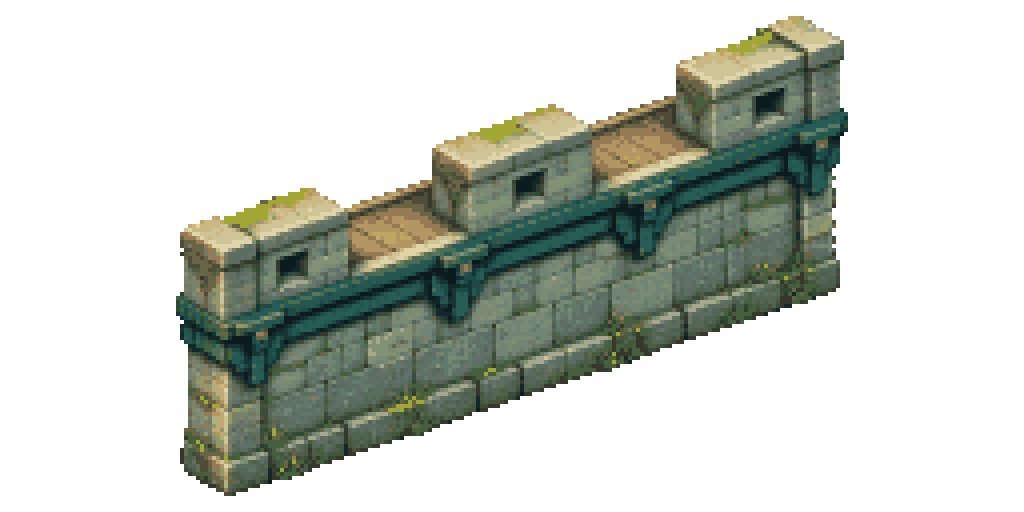
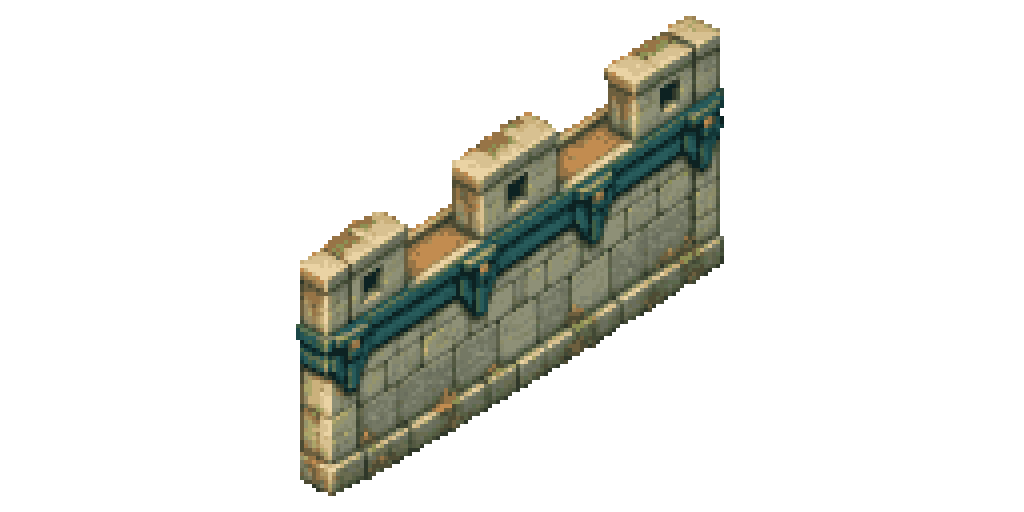
청룡 2차 성벽·모서리·길 그림 갱신

diff --git a/terrain/hd/README.md b/terrain/hd/README.md
@@ -1,6 +1,6 @@
 # 청룡 전투 필드 시험 세트
 
-ART_REQUESTS.md 요청 6의 권장 순서 1에 해당하는 그림이다. 게임 연결과 휴대폰 실기 검수는 아직 하지 않았다. 다른 진영/종류도 미착수다.
+ART_REQUESTS.md 요청 6의 청룡 시험 그림이다. 1차 5파일은 Claude가 버들골에 연결했다. 2026-11-07 청룡 2차 ①~③(성벽 교체·모서리 추가·길 교체)을 올렸으며, 새 그림의 배치 보정과 휴대폰 재확인은 Claude가 이어서 한다. ④~⑦과 다른 진영은 아직 만들지 않았다.
 
 | 파일 | 크기 | 배경 | 용도 |
 | --- | --- | --- | --- |
@@ -9,6 +9,7 @@ ART_REQUESTS.md 요청 6의 권장 순서 1에 해당하는 그림이다. 게임
 | qing-prop-bamboo-clump.png | 2048×512 | 투명 | 대숲 4가지 변형을 가로로 배치한 시트 |
 | qing-house.png | 768×768 | 투명 | 청록 기와·목조·석축의 마을 집 |
 | ally-wall.png | 1024×512 | 투명 | 청룡 성벽 직선 조각·보행로·여장 |
+| ally-wall-corner.png | 512×768 | 투명 | 청룡 성벽 바깥 모서리 기둥·짧은 양쪽 벽·청록 기와 캡 |
 
 모든 파일은 PNG, 불투명 픽셀 기준 40색 이하, 4×4px 도트 격자다. 소품 알파는 0/255이고 바닥은 전체 불투명하다. 빛은 왼쪽 위, 게임이 처리할 흐림·안개·비네트·빛 번짐·바닥 그림자는 그림에 추가하지 않았다.
 
@@ -16,14 +17,25 @@ ART_REQUESTS.md 요청 6의 권장 순서 1에 해당하는 그림이다. 게임
 
 - 바닥 두 장은 정사각형을 바로 위에서 본 질감이다. 그림 자체를 미리 마름모로 자르지 않았다. 기존 전장 바닥 투영으로 눕혀서 사용한다.
 - 대숲 자르기: `(x,y,w,h)`가 각각 `(0,0,512,512)`, `(512,0,512,512)`, `(1024,0,512,512)`, `(1536,0,512,512)`다. 각 칸의 줄기 밑끝은 y=496 직전이며 아래 투명 여백은 16px다.
-- 집 밑끝은 y=744 직전(아래 24px 여백), 성벽 최저점은 y=496 직전(아래 16px 여백)이다. 캔버스 여백을 유지한 채 배치하고 임의로 다시 꽉 잘라내지 않는다.
+- 집과 성벽 모서리 밑끝은 y=744 직전(아래 24px 여백), 성벽 직선 조각 최저점은 y=496 직전(아래 16px 여백)이다. 캔버스 여백을 유지한 채 배치하고 임의로 다시 꽉 잘라내지 않는다.
 - 그림 확대/축소에는 nearest 보간을 사용한다. 병사 화면 높이 40px 기준으로 집은 약 240~320px, 대숲 한 덩어리는 약 120~200px 높이를 시험 시작점으로 삼고 실제 버들골 화면에 맞춘다. 그림의 표시 크기와 기존 충돌/길찾기 크기는 별개다.
-- 성벽은 직선 조각 하나다. 방향 반대편이나 모서리 조각은 아직 없다. 끝점 정렬·이어 붙이기·전장 2:1 투영과의 정합은 버들골 연결 시 확인한다.
+- 성벽은 직선 조각과 바깥 모서리 조각이 있다. 반대 방향 직선 그림은 아직 없다. 게임 투영 기준은 **기울기 0.707(35.26°)**이며, 이전 2:1 기준은 잘못된 설명이다. 끝점 정렬·이어 붙이기·전장과의 정합은 새 그림을 버들골에 연결할 때 다시 확인한다.
+
+## 2차 ①~③ 측정·인계 (2026-11-07)
+
+- 기존 성벽 그림을 첨부해 다시 생성하고, 한 번 더 「더 가파르게, 35도」로 수정했다. 원본 비율을 유지한 채 캔버스에 맞췄으며 그림 전체를 기울이거나 세로로 늘리지는 않았다.
+- **최종 성벽 아랫선 측정 기울기는 약 −0.6054(31.19°)**다. 기존 약 −0.3409보다 가팔라졌지만 목표 −0.707에는 못 미친다. 사용자가 허용한 대로 이 결과를 전달하며, 각도가 정확하다고 취급하지 않는다. 모서리도 새 직선 조각과의 접합을 실기에서 맞춰야 한다.
+- 성벽 불투명 영역은 `(296,16)~(724,496)`, 모서리는 `(16,136)~(496,744)`다(우측/아래 좌표는 exclusive). 이 값은 잘라내기 범위이며 실제 벽의 연결점 좌표가 아니다.
+- 성벽 중앙 구간 x=382~659의 알파 아래 윤곽을 선형 회귀하면 `y ≈ -0.60537*x + 702.932`다. 돌/풀 장식과 픽셀 계단이 있어 수동 연결점 측정을 대신하지 않는다.
+- **기존 코드의 `HD_WALL={u0:176,u1:847,mid:[512,401],slope:.34}`는 옛 그림 기준**이다. 새 PNG에 그대로 맞는 값이 아니므로 Claude가 재측정해 갱신해야 한다. 이 작업에서는 게임 코드를 바꾸지 않았다.
+- 새 길은 양옆 띠 없이 전체가 길 표면이다. 기존 코드가 쓰던 x=40~984 잘라내기도 Claude가 전체 타일 사용으로 바꿀 수 있다. 양옆 x=8~36 / 988~1016 띠의 평균 밝기를 중앙 x=128~896과 비교한 비율은 기존 0.875 / 0.903에서 새 그림 1.002 / 0.991로 개선됐다. 2×2 반복 미리보기로도 검수했다.
+- 나머지 1차 바닥·집·대숲 파일은 변경하지 않았다. 수정·추가한 세 그림은 각 40색, 4×4 도트 격자, 두 소품은 이진 알파(0/255), 길은 전체 불투명이다.
+- 새 세 PNG의 브라우저 로딩/디코딩과 규격 검사를 통과했다. `node tests/hd-terrain.cjs http://127.0.0.1:8802/`도 390×844·844×390·1280×800에서 통과했다(그림 로딩/기존 렌더 호출·충돌/경로 보존·다른 지역 미적용·화면 넘침 검사). 이 검사는 새 모서리 연결이나 성벽 기울기의 시각적 정합을 검증하지 않으며 기존 길 잘라내기도 유지된 상태다.
 
 ## 검수와 다음 작업
 
-파일별 크기·색 수·도트 격자·알파·소품 여백과 대숲 네 칸을 검사했다. 바닥 2×2 반복 미리보기를 시각 검수하고, 브라우저에서 5개 PNG의 로딩/디코딩을 확인했다. 아직 게임에 연결되지 않아 전장 실기 검사를 통과했다는 뜻은 아니다.
+파일별 크기·색 수·도트 격자·알파·소품 여백과 대숲 네 칸을 검사했다. 바닥 2×2 반복 미리보기를 시각 검수하고 브라우저 PNG 로딩/디코딩을 확인했다. 새 그림의 각도·접합·전장 실기 검수를 통과했다는 뜻은 아니다.
 
-Claude는 이 5파일만 버들골에 우선 연결하고, 그림이 없는 항목은 기존 코드 그림을 유지한다. 휴대폰에서 타일 이음새, 집/나무 크기, 소품 각도, 가림 순서, 성벽 연결과 색·빛을 확인한 뒤 나머지 진영을 확장한다. 천하도·대화 무대·인물·병사·판정·충돌·길찾기는 이번 작업 범위에 포함하지 않는다.
+Claude는 새 성벽의 배치 기준과 모서리 연결을 갱신하고, 새 길을 자르지 않고 버들골에 연결한다. 휴대폰에서 확인한 뒤 ④~⑦ 제작을 이어간다. 그림이 없는 항목은 기존 그림을 유지한다. 천하도·대화 무대·인물·병사·판정·충돌·길찾기는 이번 작업 범위에 포함하지 않는다.
 
 요청서와 업로드 브랜치: `ccr-fa9b3dba-6er4z1`. main 병합은 하지 않는다.
